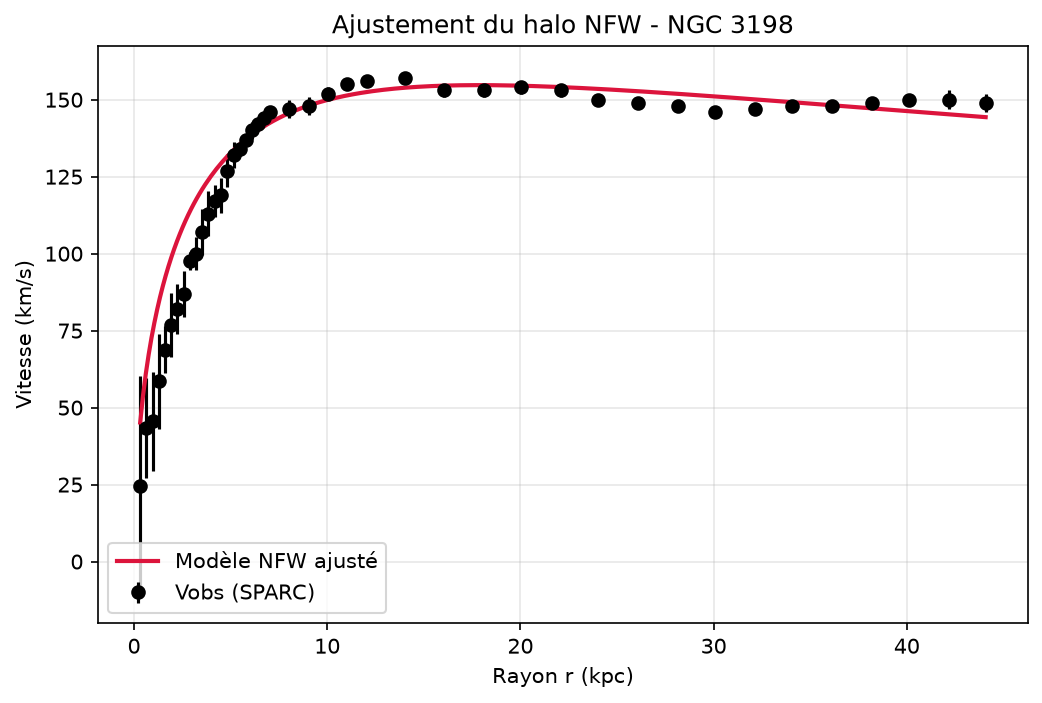
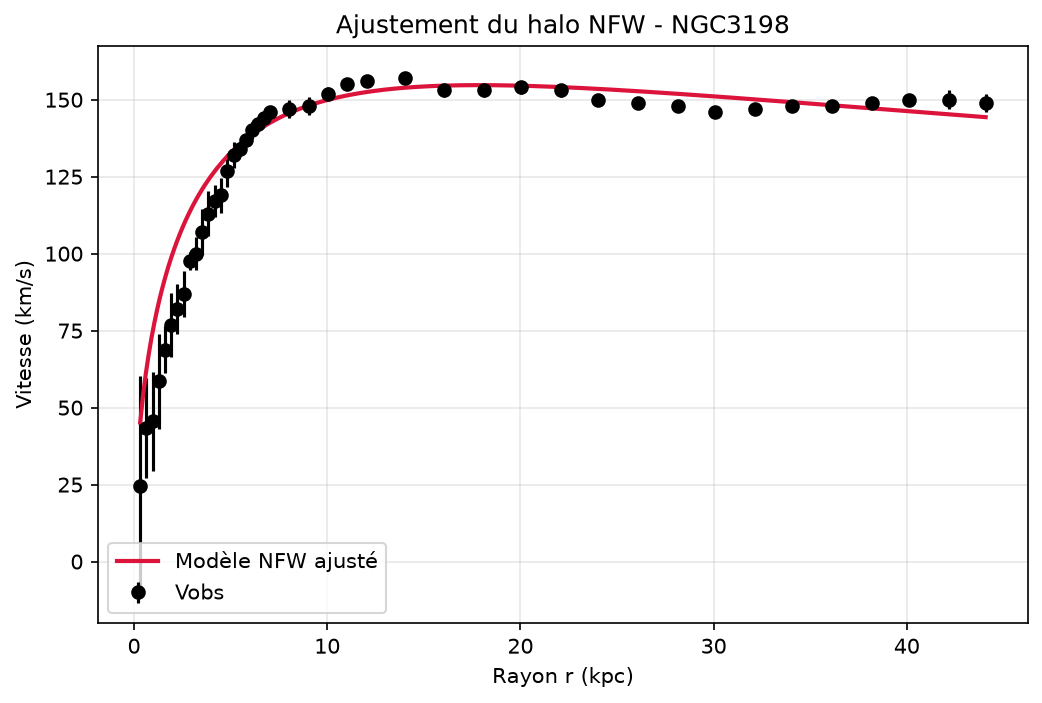
Add Python code and NGC 2403/3198 fit plots

Changed region(s): [[0.3071, 0.0, 0.7678, 0.0597], [0.215, 0.8065, 0.3071, 0.8663]]

diff --git a/profil_nfw.py b/profil_nfw.py
@@ -116,7 +116,7 @@ plt.show()
 import pandas as pd
 from scipy.optimize import curve_fit
 
-data = pd.read_csv("NGC3198_rotmod.dat", sep="\t", comment="#",
+data = pd.read_csv("NGC2403_rotmod.dat", sep="\t", comment="#",
                     names=["Rad", "Vobs", "errV", "Vgas", "Vdisk", "Vbul", "SBdisk", "SBbul"])
 
 # On extrait les colonnes nécessaires pour l'ajustement
@@ -129,10 +129,10 @@ plt.figure(figsize=(8, 5))
 plt.errorbar(rad, vobs, yerr=errv, fmt="o", color="black", label="Vobs (SPARC)")
 plt.xlabel("Rayon r (kpc)")
 plt.ylabel("Vitesse observée (km/s)")
-plt.title("Courbe de rotation mesurée - NGC 3198")
+plt.title("Courbe de rotation mesurée - NGC 2403")
 plt.legend()
 plt.grid(True, alpha=0.3)
-plt.savefig("vobs_ngc3198.png", dpi=150, bbox_inches="tight")
+plt.savefig("vobs_ngc2403.png", dpi=150, bbox_inches="tight")
 plt.show()
 
 # Ajustement
@@ -152,8 +152,8 @@ plt.errorbar(rad, vobs, yerr=errv, fmt="o", color="black", label="Vobs (SPARC)")
 plt.plot(r_lisse, v_modele, color="crimson", lw=2, label="Modèle NFW ajusté")
 plt.xlabel("Rayon r (kpc)")
 plt.ylabel("Vitesse (km/s)")
-plt.title("Ajustement du halo NFW - NGC 3198")
+plt.title("Ajustement du halo NFW - NGC 2403")
 plt.legend()
 plt.grid(True, alpha=0.3)
-plt.savefig("fit_ngc3198.png", dpi=150, bbox_inches="tight")
+plt.savefig("fit_ngc2403.png", dpi=150, bbox_inches="tight")
 plt.show()
